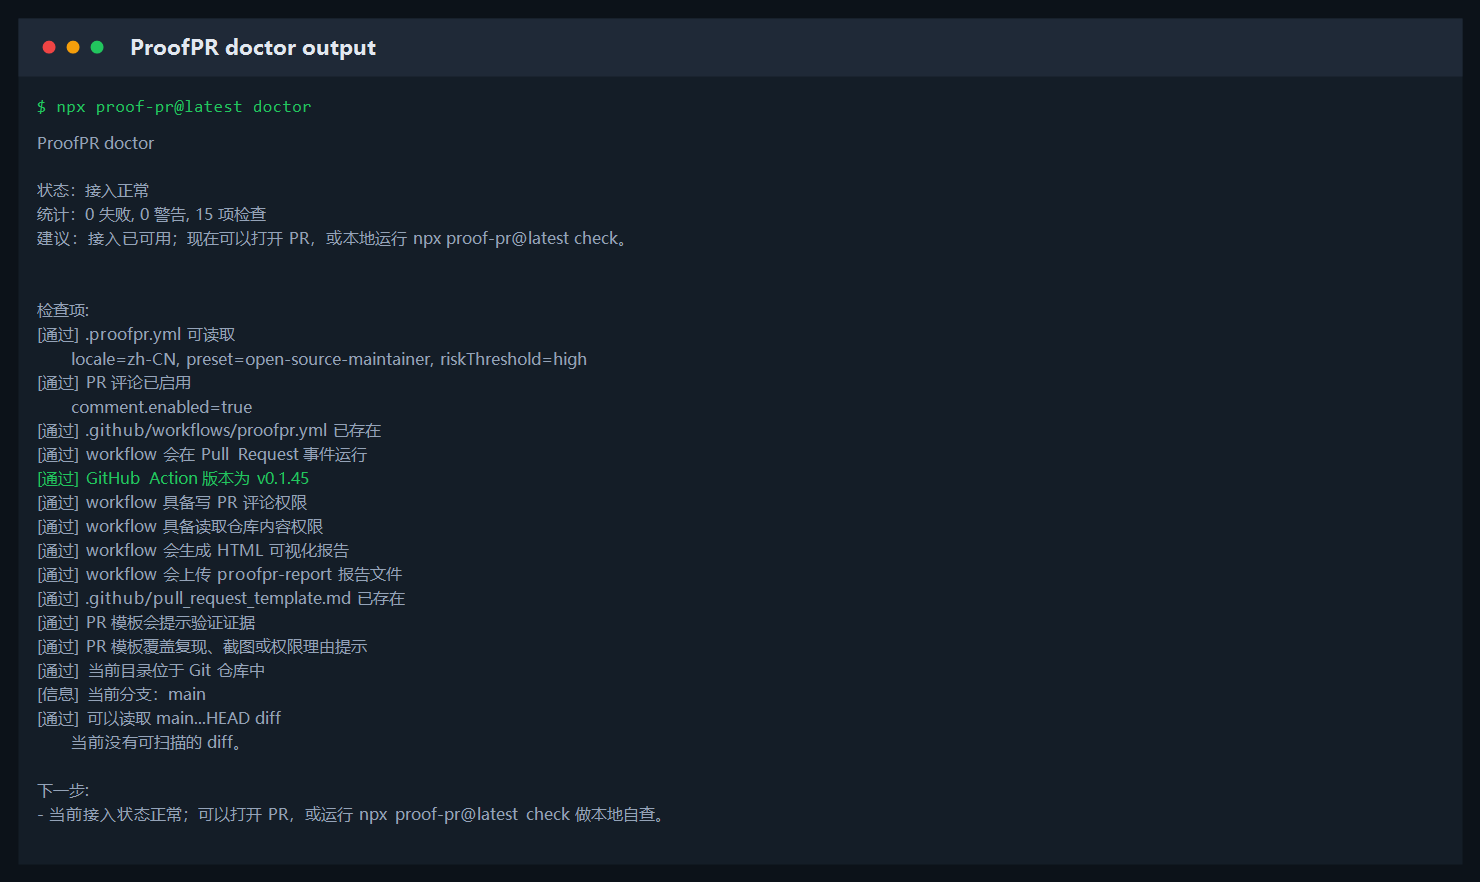
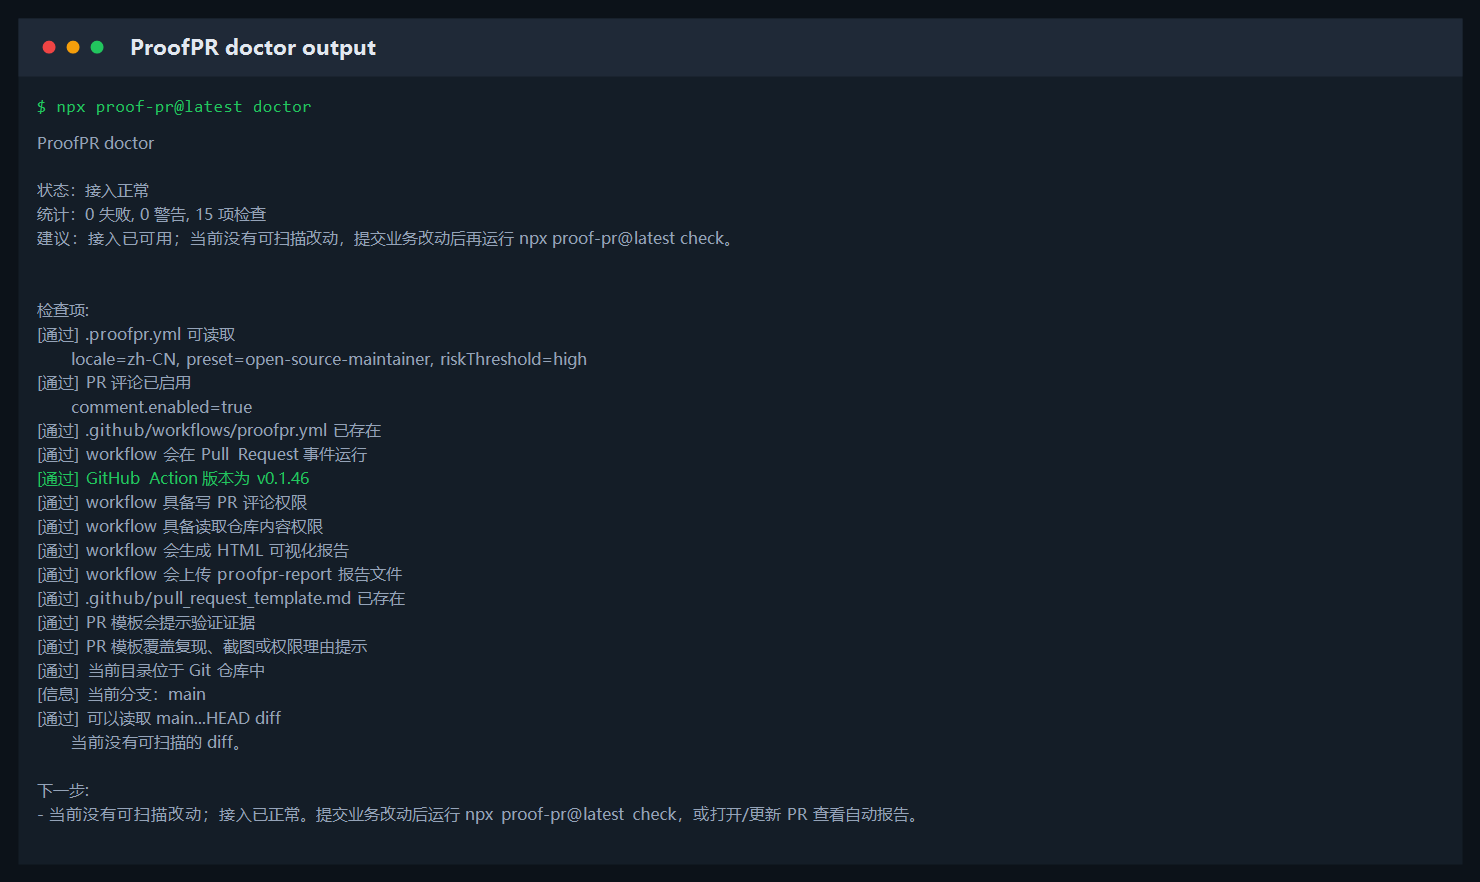
feat: clarify doctor empty diff guidance

Changed region(s): [[0.0622, 0.9184, 0.6216, 0.949], [0.0932, 0.2449, 0.4973, 0.2755]]

diff --git a/packages/cli/src/index.ts b/packages/cli/src/index.ts
@@ -23,7 +23,7 @@ import {
 } from "@proof-pr/core";
 
 const execFileAsync = promisify(execFile);
-const CLI_VERSION = "0.1.45";
+const CLI_VERSION = "0.1.46";
 
 type OutputFormat = "json" | "markdown" | "sarif" | "html";
 type FailLevel = RiskLevel | "never";
@@ -913,7 +913,11 @@ async function runDoctor(options: DoctorCommandOptions): Promise<DoctorReport> {
   await inspectGitDiff(options, checks, nextSteps);
 
   if (nextSteps.size === 0) {
-    nextSteps.add("当前接入状态正常；可以打开 PR，或运行 npx proof-pr@latest check 做本地自查。");
+    if (doctorHasEmptyDiff(checks)) {
+      nextSteps.add("当前没有可扫描改动；接入已正常。提交业务改动后运行 npx proof-pr@latest check，或打开/更新 PR 查看自动报告。");
+    } else {
+      nextSteps.add("当前接入状态正常；可以打开 PR，或运行 npx proof-pr@latest check 做本地自查。");
+    }
   }
 
   return { checks, nextSteps: [...nextSteps], fixes };
@@ -1155,7 +1159,20 @@ function renderDoctorRecommendation(report: DoctorReport, failCount: number, war
     return "可以先打开 PR 试用；想补齐接入细节时运行 npx proof-pr@latest doctor --fix。";
   }
 
+  if (doctorHasEmptyDiff(report.checks)) {
+    return "接入已可用；当前没有可扫描改动，提交业务改动后再运行 npx proof-pr@latest check。";
+  }
+
   return "接入已可用；现在可以打开 PR，或本地运行 npx proof-pr@latest check。";
+}
+
+function doctorHasEmptyDiff(checks: DoctorCheck[]): boolean {
+  return checks.some(
+    (check) =>
+      check.level === "pass" &&
+      check.title.startsWith("可以读取 ") &&
+      check.detail === "当前没有可扫描的 diff。"
+  );
 }
 
 function renderInitReport(results: InitFileResult[], options: InitCommandOptions): string {

diff --git a/docs/release.md b/docs/release.md
@@ -1,6 +1,6 @@
 # 发布流程
 
-当前最新公开版本是 `0.1.45`。
+当前最新公开版本是 `0.1.46`。
 
 ## 发布前检查
 
@@ -52,8 +52,8 @@ npm 官方要求 trusted publishing 使用 npm 11.5.1+ 和 Node 22.14+；`npm tr
 确认 `pnpm release:check` 通过后：
 
 ```bash
-git tag v0.1.45
-git push origin v0.1.45
+git tag v0.1.46
+git push origin v0.1.46
 ```
 
 发布完成后需要检查：
@@ -66,9 +66,17 @@ npx proof-pr@latest --version
 当前验证结果：
 
 ```txt
-npm view proof-pr version -> 0.1.45
-npx proof-pr@latest --version -> 0.1.45
+npm view proof-pr version -> 0.1.46
+npx proof-pr@latest --version -> 0.1.46
 ```
+
+## `v0.1.46` 发布状态
+
+`v0.1.46` 是 doctor 空状态建议优化版，重点包括：
+
+- 当接入正常但当前分支没有可扫描 diff 时，`doctor` 不再直接建议立刻运行 `check`。
+- 新建议会明确说明“当前没有可扫描改动”，并提示提交业务改动后再运行 `check`，或打开/更新 PR 查看自动报告。
+- doctor 文档截图同步刷新，避免用户把空 diff 状态误认为接入故障。
 
 ## `v0.1.45` 发布状态
 
@@ -338,7 +346,7 @@ npx proof-pr@latest --version -> 0.1.45
 
 ## 版本说明
 
-`0.1.8` 已经发布到 npm，但 CLI `--version` 仍显示旧版本。`0.1.45` 继承了后续修复，并且是当前推荐使用版本。
+`0.1.8` 已经发布到 npm，但 CLI `--version` 仍显示旧版本。`0.1.46` 继承了后续修复，并且是当前推荐使用版本。
 
 ## 发布后动作
 

diff --git a/docs/README.md b/docs/README.md
@@ -17,8 +17,8 @@
 
 ## 当前发布
 
-- GitHub Release：[`v0.1.45`](https://github.com/linsk27/proof-pr/releases/tag/v0.1.45)
-- npm：[`proof-pr@0.1.45`](https://www.npmjs.com/package/proof-pr)
+- GitHub Release：[`v0.1.46`](https://github.com/linsk27/proof-pr/releases/tag/v0.1.46)
+- npm：[`proof-pr@0.1.46`](https://www.npmjs.com/package/proof-pr)
 - 核心能力：判断 PR 是否值得审查、指出缺失证据、标出高风险改动区域，并生成维护者行动清单。
 - 辅助能力：HTML 报告、GitHub annotations、SARIF、benchmark、真实案例库和 npm Trusted Publishing 发布流程。
 
@@ -29,7 +29,7 @@ npm view proof-pr version
 npx proof-pr@latest --version
 ```
 
-当前都应输出 `0.1.45`。
+当前都应输出 `0.1.46`。
 
 不知道怎么开始时：
 

diff --git a/docs/roadmap.md b/docs/roadmap.md
@@ -31,7 +31,7 @@ ProofPR 的长期定位不是“又一个代码扫描器”，而是 **AI 时代
    代码侧材料已准备好，下一步需要仓库所有者在 GitHub 网页上确认发布。
 
 2. 发布链路稳定性
-   Trusted Publisher 已配置并通过 `v0.1.21` 到 `v0.1.45` 验证。后续重点是保持 release workflow 简单可审计，避免回退到本地 token 发布。
+   Trusted Publisher 已配置并通过 `v0.1.21` 到 `v0.1.46` 验证。后续重点是保持 release workflow 简单可审计，避免回退到本地 token 发布。
 
 3. 真实截图刷新
    用供应链增强规则重新跑一个 demo PR，补充新版依赖风险、HTML 报告和 benchmark 效果图。

diff --git a/docs/getting-started.md b/docs/getting-started.md
@@ -76,7 +76,7 @@ jobs:
     runs-on: ubuntu-latest
     steps:
       - uses: actions/checkout@v4
-      - uses: linsk27/proof-pr@v0.1.45
+      - uses: linsk27/proof-pr@v0.1.46
         with:
           fail-on: high
           comment: "true"
@@ -147,7 +147,7 @@ npx proof-pr@latest request
 
 `check` 会自动选择常见主分支作为 base，并纳入已提交分支 diff、staged、unstaged 和未跟踪新文件。当前没有可扫描 diff 时，它只输出短提示和下一步建议。
 
-如果第一行输出 `0.1.45`，说明你正在使用当前最新发布版。
+如果第一行输出 `0.1.46`，说明你正在使用当前最新发布版。
 
 也可以全局安装：
 

diff --git a/docs/commands.md b/docs/commands.md
@@ -121,7 +121,7 @@ npx proof-pr@latest doctor
 - `.github/workflows/proofpr.yml` 是否存在。
 - `.github/pull_request_template.md` 是否存在，以及是否提示验证、复现、截图或权限理由。
 - workflow 是否监听 `pull_request`。
-- workflow 是否使用当前推荐的 `linsk27/proof-pr@v0.1.45`。
+- workflow 是否使用当前推荐的 `linsk27/proof-pr@v0.1.46`。
 - 是否具备 `pull-requests: write` 和 `contents: read` 权限。
 - 是否启用了 `html-output` 和 `actions/upload-artifact`，方便下载 HTML 可视化报告。
 - 当前目录是否在 Git 仓库里，以及自动识别出的 base...HEAD diff 是否可读。

diff --git a/docs/zero-to-one.md b/docs/zero-to-one.md
@@ -149,7 +149,7 @@ npx proof-pr@latest check
 
 `check` 会自动选择常见主分支作为 base，并纳入已提交分支 diff、staged、unstaged 和未跟踪新文件。当前没有可扫描 diff 时，它只输出短提示和下一步建议。
 
-第一行当前应输出 `0.1.45`，用于确认 npm latest 已经安装正确。
+第一行当前应输出 `0.1.46`，用于确认 npm latest 已经安装正确。
 
 扫描内置案例：
 
@@ -201,7 +201,7 @@ permissions:
 
 steps:
   - uses: actions/checkout@v4
-  - uses: linsk27/proof-pr@v0.1.45
+  - uses: linsk27/proof-pr@v0.1.46
     with:
       fail-on: high
       comment: "true"

diff --git a/docs/sarif-code-scanning.md b/docs/sarif-code-scanning.md
@@ -59,7 +59,7 @@ jobs:
     runs-on: ubuntu-latest
     steps:
       - uses: actions/checkout@v4
-      - uses: linsk27/proof-pr@v0.1.45
+      - uses: linsk27/proof-pr@v0.1.46
         with:
           fail-on: high
           comment: "true"
